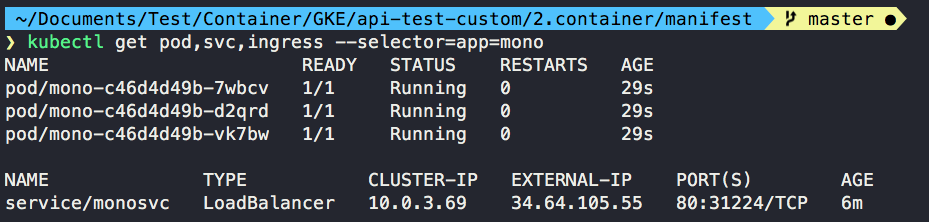
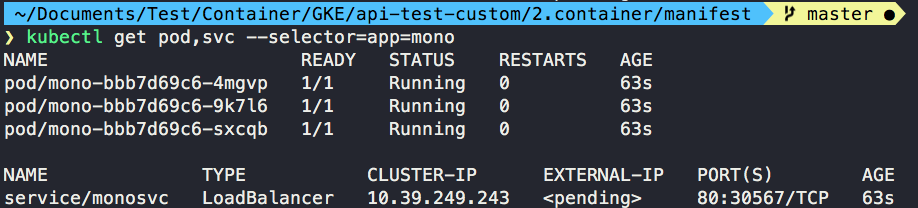
RAYH-23: edit code

diff --git a/README.md b/README.md
@@ -55,6 +55,8 @@
 
 설명: 1번 monolith directory에서 koa framework 동작
 
+`npm install`
+
 `node server.js`
 
 아래와 같이 동작화면을 확인
@@ -79,7 +81,7 @@
 
 `source imagepush.sh`
 
-* 내 환경(프로젝트 및 이미지 태그)에 맞게 변수 지정
+* manifest directory로 이동하여 내 환경(프로젝트 및 이미지 태그)에 맞게 변수 지정
 
 `sed -i '' "s/my_project/$my_project/g" deploy.yaml`
 
@@ -87,7 +89,7 @@
 
 (deploy.yaml 파일에 들어가서 내 프로젝트와 이미지가 제대로 변경되었는지 확인 필요)
 
-* manifest directory로 이동하여 생성한 gke에 배포
+* gke 클러스터에 배포
 
 `kubectl create -f deploy.yaml`
 
@@ -96,6 +98,8 @@
 (정상적으로 진행이 된다면 tcp 로드밸런서에 의해 동작함)
 
 * 생성 확인
+
+`kubectl get pod,svc --selector=app=mono`
 
 ![mono](./images/mono-component.png)
 
@@ -107,6 +111,12 @@
 
 ![result](./images/mono-result.png)  
 
+* (4번 진행을 위해) Object 삭제
+
+`kubectl delete -f deploy.yaml`
+
+`kebectl delete -f svc.yaml`
+
 **4. 마이크로 서비스 컨테이너화 확인**
 
 설명: api 단위로 나누어서 배포 진행 (3번 directory로 들어가면 서비스별로 나눈 것을 확인할 수 있음)
@@ -115,13 +125,13 @@
 
 `source push.sh`
 
-* 내 환경(프로젝트 및 이미지 태그)에 맞게 변수 지정
+* manifest directory로 이동하여 내 환경(프로젝트 및 이미지 태그)에 맞게 변수 지정
 
 `source env.sh`
 
 (deploy.yaml 파일에 들어가서 내 프로젝트와 이미지가 제대로 변경되었는지 확인 필요)
 
-* manifest directory로 이동하여 생성한 gke에 배포
+* gke 클러스터에 배포
 
 `kubectl create -f deploy.yaml`
 
@@ -148,3 +158,21 @@
 `curl -i -L $LB`
 
 ![result](./images/msa-result.png)
+
+
+
+**5. 정리**
+
+* Object 삭제
+
+`kubectl delete -f deploy.yaml`
+
+`kubectl delete -f svc.yaml`
+
+`kubectl delete -f ingress.yaml`
+
+* 클러스터 삭제
+
+`gcloud container clusters delete sample-cluster --zone asia-northeast3-a`
+
+(혹은 콘솔에서 삭제)
